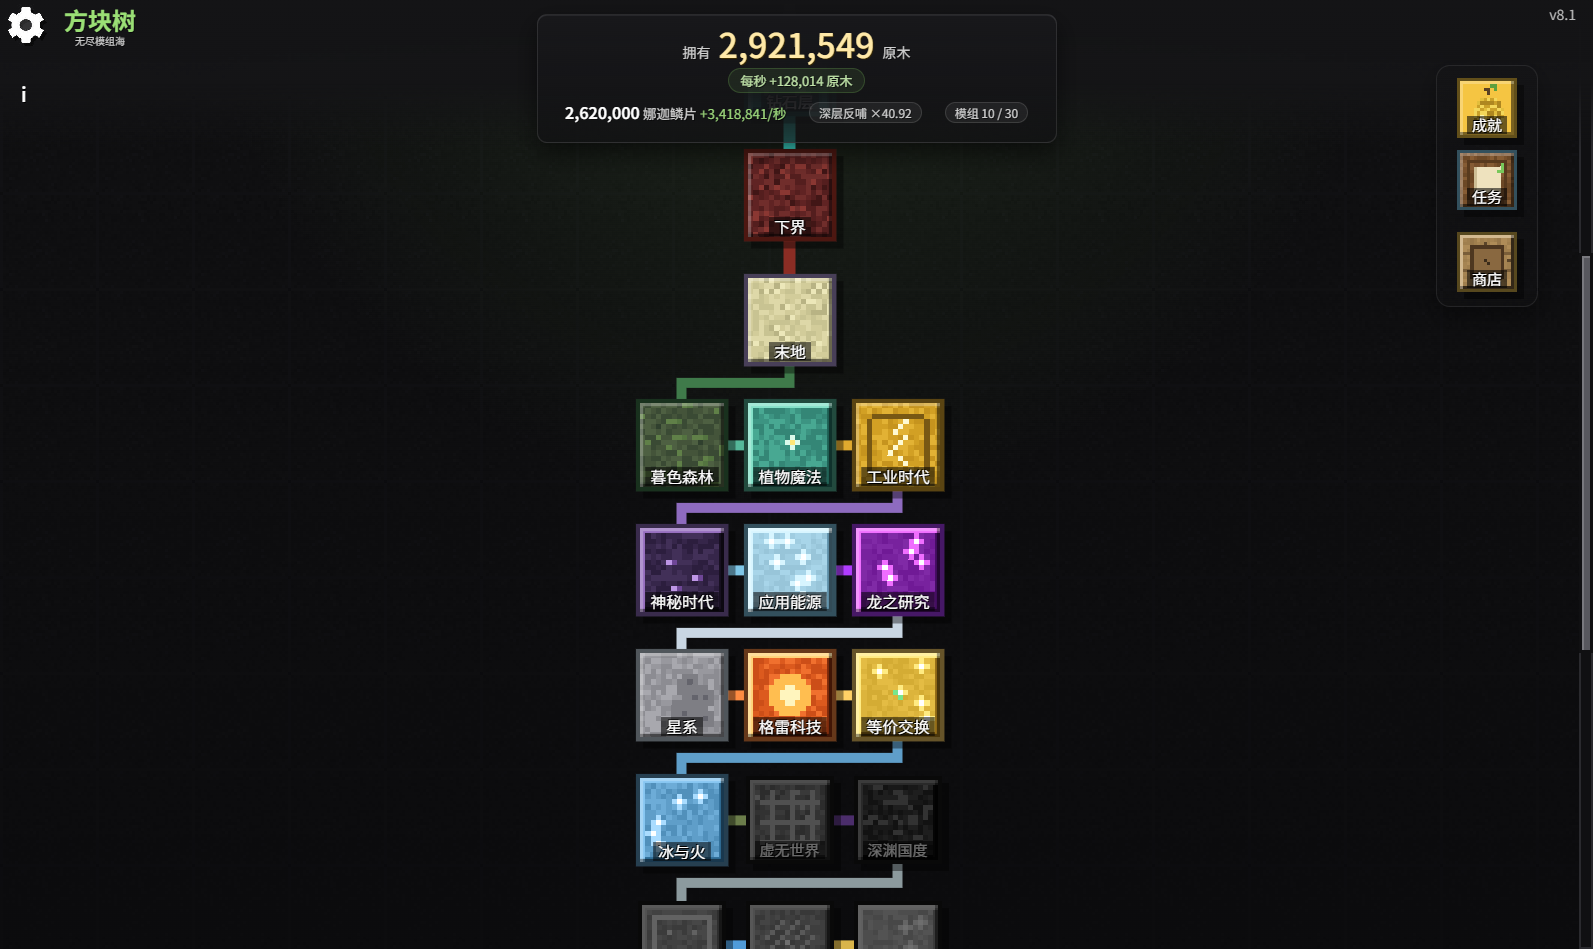
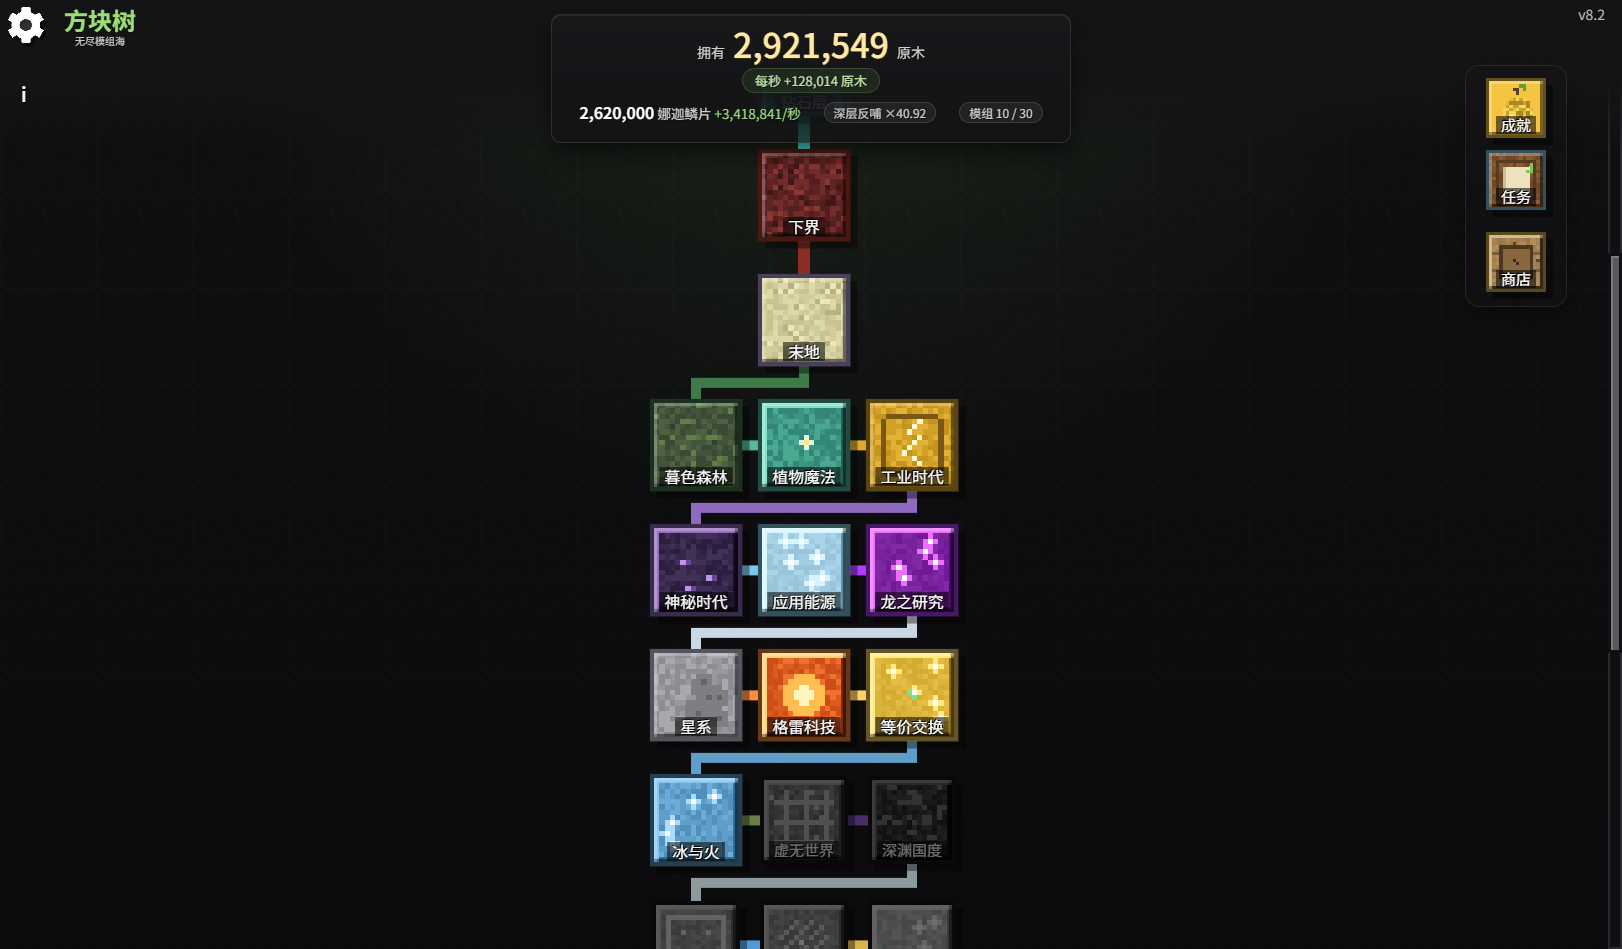
分屏 HUD 改为左栏居中、侧栏自动让位，版本升至 8.2 并更新截图

diff --git a/index.html b/index.html
@@ -7,40 +7,40 @@
 	<title>方块树：无尽模组海 · Minecraft 放置游戏</title>
 	<link rel="icon" type="image/png" href="img/favicon.png">
 
-	<link rel="stylesheet" type="text/css" href="css/system-style.css?v=8.1" />
-	<link rel="stylesheet" type="text/css" href="css/bars.css?v=8.1" />
-	<link rel="stylesheet" type="text/css" href="css/components.css?v=8.1" />
-	<link rel="stylesheet" type="text/css" href="css/general-style.css?v=8.1" />
-	<link rel="stylesheet" type="text/css" href="css/misc.css?v=8.1" />
-	<link rel="stylesheet" type="text/css" href="css/other-tabs.css?v=8.1" />
-	<link rel="stylesheet" type="text/css" href="css/popup.css?v=8.1" />
-	<link rel="stylesheet" type="text/css" href="css/tree-node.css?v=8.1" />
-	<link rel="stylesheet" type="text/css" href="css/minecraft.css?v=8.1" />
+	<link rel="stylesheet" type="text/css" href="css/system-style.css?v=8.2" />
+	<link rel="stylesheet" type="text/css" href="css/bars.css?v=8.2" />
+	<link rel="stylesheet" type="text/css" href="css/components.css?v=8.2" />
+	<link rel="stylesheet" type="text/css" href="css/general-style.css?v=8.2" />
+	<link rel="stylesheet" type="text/css" href="css/misc.css?v=8.2" />
+	<link rel="stylesheet" type="text/css" href="css/other-tabs.css?v=8.2" />
+	<link rel="stylesheet" type="text/css" href="css/popup.css?v=8.2" />
+	<link rel="stylesheet" type="text/css" href="css/tree-node.css?v=8.2" />
+	<link rel="stylesheet" type="text/css" href="css/minecraft.css?v=8.2" />
 
 	<link href="https://fonts.googleapis.com/css?family=Inconsolata" rel="stylesheet">
 
 	<script src="https://unpkg.com/vue@2.7.16/dist/vue.min.js"></script>
-	<script src="js/technical/break_eternity.js?v=8.1"></script>
-	<script src="js/technical/layerSupport.js?v=8.1"></script>
+	<script src="js/technical/break_eternity.js?v=8.2"></script>
+	<script src="js/technical/layerSupport.js?v=8.2"></script>
 
-	<script src="js/mod.js?v=8.1"></script>
-	<script src="js/technical/loader.js?v=8.1"></script>
+	<script src="js/mod.js?v=8.2"></script>
+	<script src="js/technical/loader.js?v=8.2"></script>
 
-	<script src="js/technical/temp.js?v=8.1"></script>
-	<script src="js/technical/displays.js?v=8.1"></script>
+	<script src="js/technical/temp.js?v=8.2"></script>
+	<script src="js/technical/displays.js?v=8.2"></script>
 	
-	<script src="js/game.js?v=8.1"></script>
-	<script src="js/utils.js?v=8.1"></script>
-	<script src="js/utils/easyAccess.js?v=8.1"></script>
-	<script src="js/technical/systemComponents.js?v=8.1"></script>
-	<script src="js/components.js?v=8.1"></script>
-	<script src="js/technical/canvas.js?v=8.1"></script>
-	<script src="js/technical/particleSystem.js?v=8.1"></script>
-	<script src="js/utils/NumberFormating.js?v=8.1"></script>
-	<script src="js/utils/options.js?v=8.1"></script>
-	<script src="js/utils/save.js?v=8.1"></script>
-	<script src="js/utils/themes.js?v=8.1"></script>
-	<script src="js/easter-egg.js?v=8.1"></script>
+	<script src="js/game.js?v=8.2"></script>
+	<script src="js/utils.js?v=8.2"></script>
+	<script src="js/utils/easyAccess.js?v=8.2"></script>
+	<script src="js/technical/systemComponents.js?v=8.2"></script>
+	<script src="js/components.js?v=8.2"></script>
+	<script src="js/technical/canvas.js?v=8.2"></script>
+	<script src="js/technical/particleSystem.js?v=8.2"></script>
+	<script src="js/utils/NumberFormating.js?v=8.2"></script>
+	<script src="js/utils/options.js?v=8.2"></script>
+	<script src="js/utils/save.js?v=8.2"></script>
+	<script src="js/utils/themes.js?v=8.2"></script>
+	<script src="js/easter-egg.js?v=8.2"></script>
 
 </head>
 

diff --git a/js/mod.js b/js/mod.js
@@ -13,11 +13,15 @@ let modInfo = {
 
 // 版本号与副标题
 let VERSION = {
-	num: "8.1",
-	name: "资源同屏",
+	num: "8.2",
+	name: "正中其位",
 }
 
 let changelog = `<h1>更新日志</h1><br>
+	<h3>v8.2 — 正中其位</h3><br>
+	- 分屏时顶部 HUD 改为在左栏居中显示，不再贴左。<br>
+	- 侧栏小节点改为排在 HUD 下方，随 HUD 高度自动让位，不再与 HUD 重叠。<br>
+	- 更新缓存串至 v8.2（样式表与全部脚本）。<br>
 	<h3>v8.1 — 资源同屏</h3><br>
 	- 科技树页顶部 HUD 增加第二行：跟随最后打开的层，显示该层主资源（如木板、鳞片、末影珍珠）的数量与自动产出。<br>
 	- 「深层反哺」与「模组层进度」从独立提示行收进第二行的小标签，省下一行高度；新手提示仍然单独显示。<br>

diff --git a/css/minecraft.css b/css/minecraft.css
@@ -273,13 +273,18 @@ button:active {
 	color: #ffe9a8;
 }
 
-/* 分屏时左栏较窄，HUD 与侧栏节点并排，避免互相覆盖 */
+/* 分屏时 HUD 在左栏居中，侧栏节点下移让出位置 */
 .treeOverlay.col .head-hud,
 #treeTab.col #fakeHead {
-	width: calc(100% - 180px);
-	max-width: 520px;
-	margin-left: 16px;
+	width: min(520px, calc(100% - 48px));
+	margin-left: auto;
 	margin-right: auto;
+}
+
+.treeOverlay.col .sideLayers {
+	position: static;
+	float: right;
+	margin: 12px 55px 0 0;
 }
 
 /* 窄屏时给标题和右侧导轨让位，避免 HUD 与它们重叠 */

diff --git a/docs/!general-info.md b/docs/!general-info.md
@@ -17,7 +17,7 @@ python -m http.server 8000
 
 ## 当前版本
 
-- 版本：**v8.1「资源同屏」**
+- 版本：**v8.2「正中其位」**
 - 科技树：**36 层**（6 原版 + 30 模组），模组层每行 3 个
 - 每个模组层：10 个升级（含主题签名升级）、4 座自动化设施 + 主题核心、10 个里程碑、3 个挑战
 - 5 套原型机制、8 类主题特性、每层 1 套层机制（前 6 层专属 + 8 套轮换模板 × 3 个变体），30 层与 30 个主题一一对应

diff --git a/docs/balance.md b/docs/balance.md
@@ -1,6 +1,6 @@
 # 数值与平衡
 
-本文记录 v8.1 的关键公式，方便后续调整。所有数值都可以在 `js/mod.js`、`js/layers/modpack.js` 中修改。
+本文记录 v8.2 的关键公式，方便后续调整。所有数值都可以在 `js/mod.js`、`js/layers/modpack.js` 中修改。
 
 ## 全局难度
 

diff --git a/docs/guide.md b/docs/guide.md
@@ -1,6 +1,6 @@
 # 方块树：无尽模组海 · 攻略
 
-适用版本：v8.1「资源同屏」。数值与 [balance.md](balance.md)、[gameplay.md](gameplay.md) 一致。
+适用版本：v8.2「正中其位」。数值与 [balance.md](balance.md)、[gameplay.md](gameplay.md) 一致。
 
 ## 0. 先记住三件事
 
